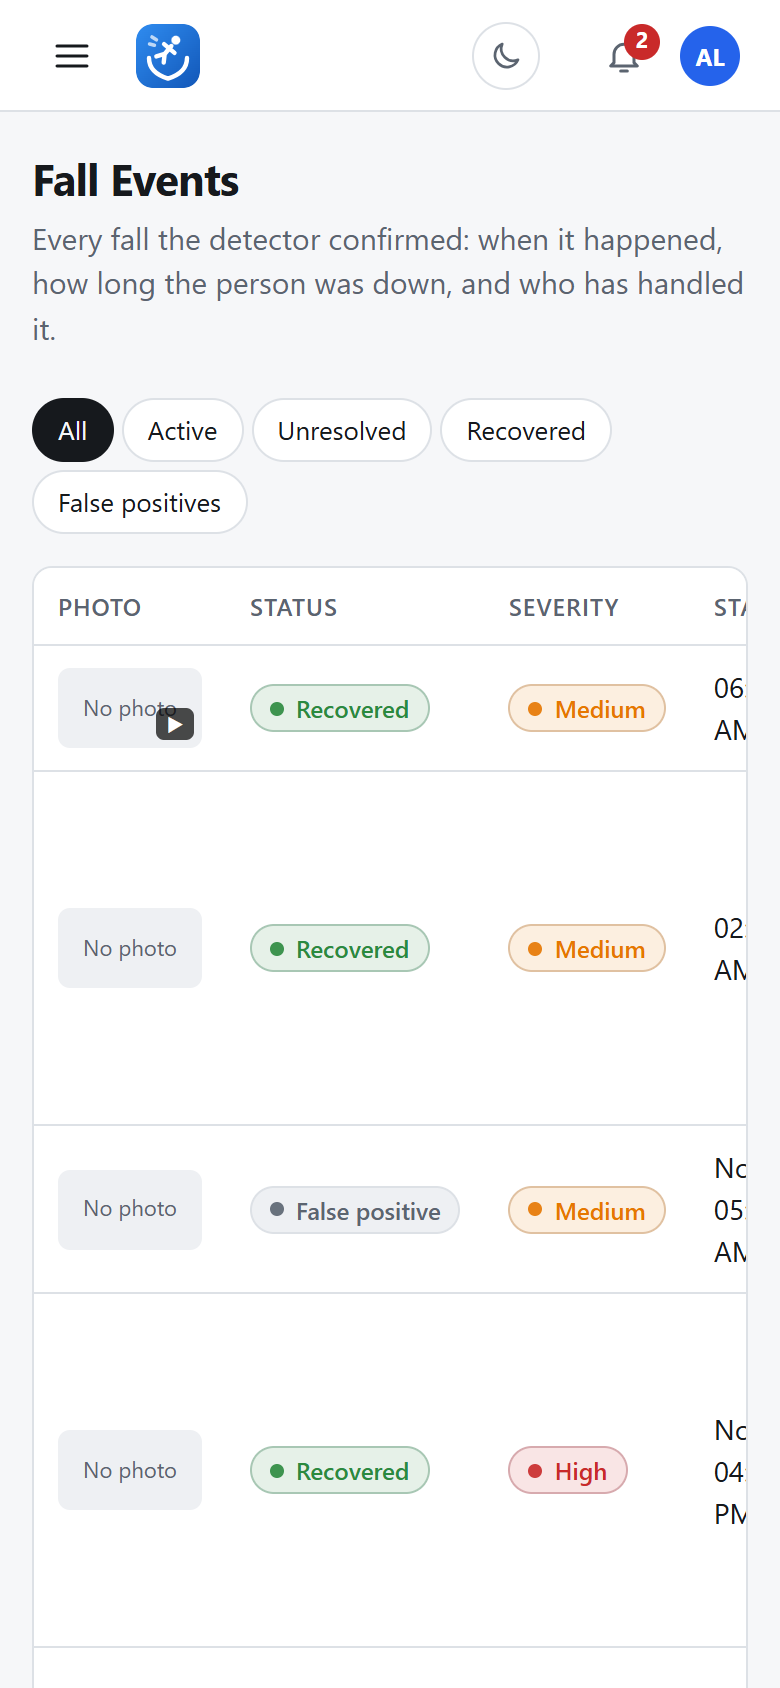
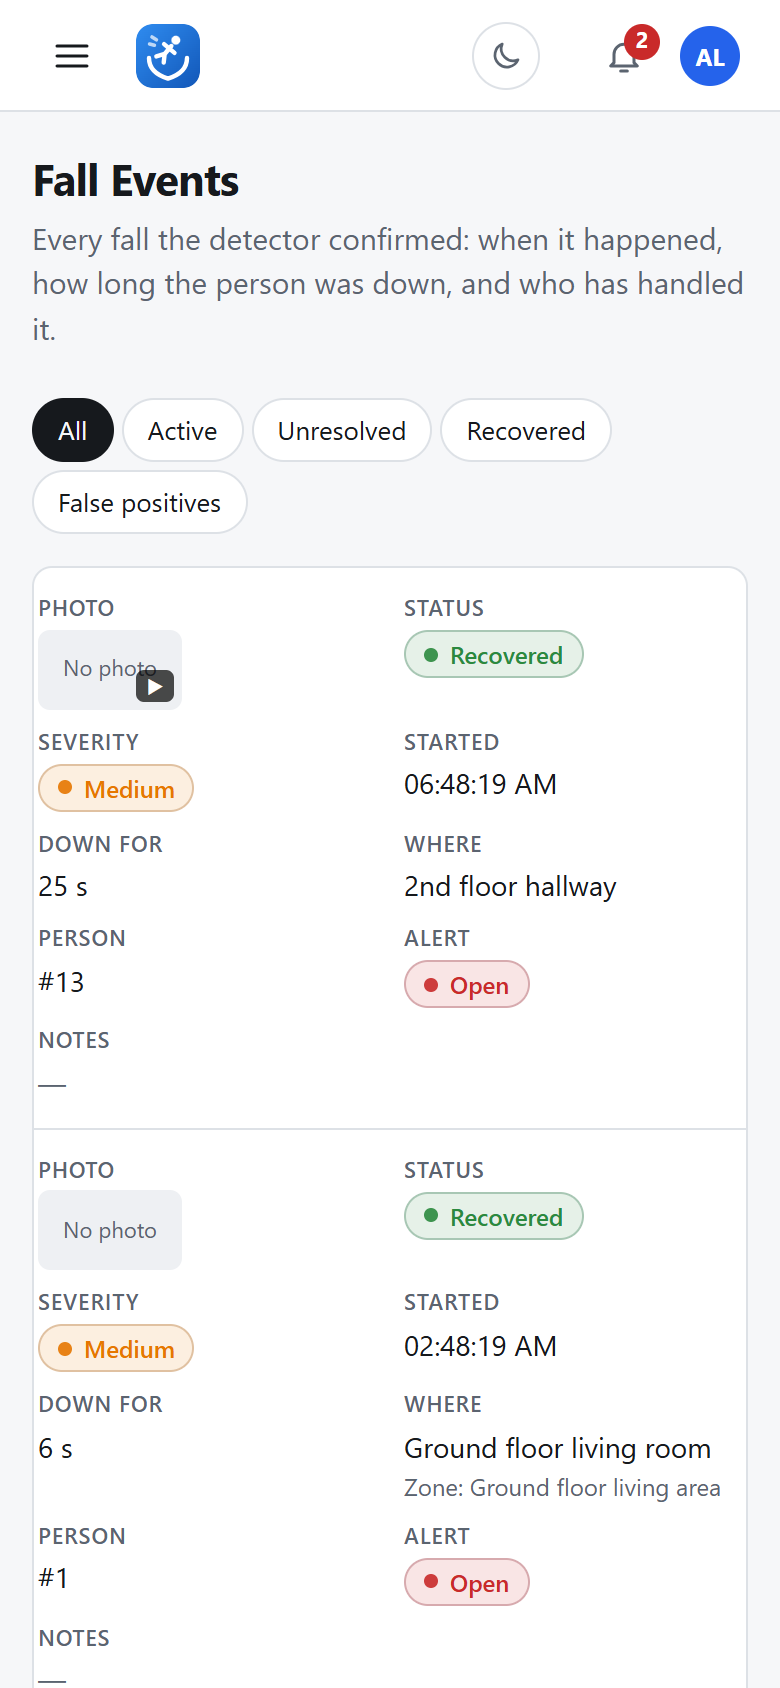
fix(frontend): phone layouts: tables as cards, tick-box grids that fit, 2-column tiles
Checked every page at 390 and 360 px wide (nothing wider than the screen now):
- Tables marked table--stack become one card per row on phones (<= 640 px), each value under
  its column's name (useStackedTableLabels copies the headers): Fall Events, Reports & Export
  (incident log, report forms, recently deleted), Members, temporary access links, Emails sent,
  Recent messages, Camera Logs, share-link views.
- What each role can do / When to notify / recipients: fit the screen instead of being cut off.
  When to notify also had its row labels styled as headers (capitals, no wrapping), which
  pushed the tick columns out of the card on every screen size.
- Summary tiles two per row on phones (incident page, Analytics, Reports).
- Camera order: the status and the move buttons wrap under the name.
- Settings -> System status: long errors wrap inside the card.
- Phone screenshots 21, 23 refreshed.

diff --git a/fallguard-frontend/src/components/ui/ui.css b/fallguard-frontend/src/components/ui/ui.css
@@ -47,7 +47,7 @@
 .field small { color: var(--text-muted); font-weight: 400; }
 
 /* Stat tiles */
-.tiles { display: grid; gap: 12px; grid-template-columns: repeat(auto-fit, minmax(min(100%, 180px), 1fr)); margin-bottom: 24px; }
+.tiles { display: grid; gap: 12px; grid-template-columns: repeat(auto-fit, minmax(min(100%, 150px), 1fr)); margin-bottom: 24px; }
 .tile { padding: 16px; }
 .tile__label { font-size: 13px; color: var(--text-muted); }
 .tile__value { font-size: 30px; font-weight: 700; letter-spacing: -0.02em; font-variant-numeric: tabular-nums; line-height: 1.2; margin-top: 4px; }
@@ -195,3 +195,27 @@
 .msg-preview__note { margin: 10px 0 0; font-size: 13px; }
 .msg-preview__loading { margin: 0; }
 @media (prefers-reduced-motion: reduce) { .msg-preview__card { animation: none; } }
+
+/* Phones: tables marked table--stack show one card per row, each value under its column's name
+   (data-label, filled in by useStackedTableLabels). Cells without a name (buttons) span the row. */
+@media (max-width: 640px) {
+  .tiles { gap: 10px; }
+  .tile { padding: 12px 14px; }
+  .table--stack { min-width: 0 !important; }
+  .table--stack thead { position: absolute; width: 1px; height: 1px; overflow: hidden; clip: rect(0 0 0 0); }
+  .table--stack, .table--stack tbody { display: block; width: 100%; }
+  .table--stack tr { display: grid; grid-template-columns: repeat(2, minmax(0, 1fr)); gap: 8px 14px; padding: 12px 2px;
+    border-bottom: 1px solid var(--border); }
+  .table--stack tbody tr:last-child { border-bottom: 0; }
+  .table--stack td { display: block; min-width: 0; max-width: none !important; padding: 0; border: 0; text-align: left !important;
+    white-space: normal !important; overflow-wrap: anywhere; word-break: normal !important; }
+  .table--stack td[data-label]::before { content: attr(data-label); display: block; margin-bottom: 2px; font-size: 11px;
+    font-weight: 600; letter-spacing: .04em; text-transform: uppercase; color: var(--text-muted); }
+  .table--stack td:not([data-label]) { grid-column: 1 / -1; }
+  .table--stack td:empty { display: none; }
+  .table.table--stack tr.is-link:hover td { background: none; }
+  .table.table--stack tr.is-link:active { background: var(--surface-2); }
+  /* System status: name and badge on one line, the detail (latency or error) under them */
+  .table--status td { padding-left: 0; padding-right: 8px; }
+  .table--status td.num { white-space: normal; overflow-wrap: anywhere; max-width: 38vw; font-size: 12px; }
+}

diff --git a/fallguard-frontend/src/features/notifications/notifications.css b/fallguard-frontend/src/features/notifications/notifications.css
@@ -3,13 +3,20 @@
 
 .notif-matrix { min-width: 480px; }
 .notif-matrix__sev { text-align: center !important; width: 110px; }
-.notif-matrix__ch { display: grid; gap: 2px; text-align: left; font-weight: 500; text-transform: none; letter-spacing: 0; color: var(--text); font-size: 14px; white-space: normal; padding: 10px 12px; border-bottom: 1px solid var(--border); }
-.notif-matrix__ch small { font-weight: 400; font-size: 12px; }
+.notif-matrix th.notif-matrix__ch, .notif-recipients th.notif-matrix__ch { display: grid; gap: 2px; text-align: left; font-weight: 500; text-transform: none; letter-spacing: 0; color: var(--text); font-size: 14px; white-space: normal; padding: 10px 12px; border-bottom: 1px solid var(--border); }
+.notif-matrix th.notif-matrix__ch small, .notif-recipients th.notif-matrix__ch small { font-weight: 400; font-size: 12px; text-transform: none; letter-spacing: 0; }
 .notif-matrix__cell { text-align: center; }
 .notif-matrix__cell input { width: 18px; height: 18px; accent-color: var(--accent); cursor: pointer; }
 .notif-matrix__cell input:disabled { cursor: not-allowed; opacity: .4; }
 .notif-recipients { min-width: 460px; }
 .notif-recipients .notif-matrix__sev { width: 70px; }
+@media (max-width: 640px) {
+  .notif-matrix, .notif-recipients { min-width: 0; }
+  .notif-matrix th, .notif-matrix td, .notif-recipients th, .notif-recipients td { padding-left: 6px; padding-right: 6px; }
+  .notif-matrix__sev, .notif-recipients .notif-matrix__sev { width: 62px; }
+  .notif-matrix__sev .badge, .notif-recipients .notif-matrix__sev .badge { padding: 1px 6px; font-size: 11px; }
+  .notif-matrix th.notif-matrix__ch { padding: 8px 6px; }
+}
 
 .notif-add { display: grid; gap: 10px; margin-top: 12px; }
 .notif-add__manual { display: flex; flex-wrap: wrap; gap: 10px; align-items: flex-end; }

diff --git a/fallguard-frontend/src/lib/stackTables.ts b/fallguard-frontend/src/lib/stackTables.ts
@@ -1,0 +1,40 @@
+import { useEffect } from 'react';
+
+/**
+ * Tables marked `table--stack` become one card per row on phones (ui.css): each cell shows its
+ * column's name above its value. This copies the header names onto the cells (data-label), for
+ * every such table on the page, also when rows are added or the page changes.
+ */
+export function useStackedTableLabels(): void {
+  useEffect(() => {
+    let frame = 0;
+    const label = () => {
+      frame = 0;
+      for (const table of document.querySelectorAll<HTMLTableElement>('table.table--stack')) {
+        const heads: string[] = [];
+        for (const th of table.querySelectorAll<HTMLTableCellElement>('thead tr:first-child > th')) {
+          for (let i = 0; i < (th.colSpan || 1); i++) heads.push(th.textContent?.trim() ?? '');
+        }
+        for (const row of table.querySelectorAll<HTMLTableRowElement>('tbody > tr')) {
+          let col = 0;
+          for (const cell of Array.from(row.cells)) {
+            const name = cell.colSpan > 1 ? '' : heads[col] ?? '';
+            if (name && cell.getAttribute('data-label') !== name) cell.setAttribute('data-label', name);
+            if (!name && cell.hasAttribute('data-label')) cell.removeAttribute('data-label');
+            col += cell.colSpan || 1;
+          }
+        }
+      }
+    };
+    const schedule = () => {
+      if (!frame) frame = requestAnimationFrame(label);
+    };
+    const observer = new MutationObserver(schedule);
+    observer.observe(document.body, { childList: true, subtree: true });
+    schedule();
+    return () => {
+      observer.disconnect();
+      cancelAnimationFrame(frame);
+    };
+  }, []);
+}

diff --git a/fallguard-frontend/src/features/incident-reports/IncidentReportsList.tsx b/fallguard-frontend/src/features/incident-reports/IncidentReportsList.tsx
@@ -61,7 +61,7 @@ function RecentlyDeleted({ onRestored }: { onRestored: () => unknown }) {
       {msg && <p className={`notice${msg.ok ? '' : ' notice--error'}`} role="status">{msg.text}</p>}
       {reports.length > 0 && (
         <div className="table-wrap">
-          <table className="table">
+          <table className="table table--stack">
             <thead><tr><th>Report</th><th>Incident</th><th>Deleted</th><th>Removed for good</th><th /></tr></thead>
             <tbody>
               {reports.map((r) => (
@@ -124,7 +124,7 @@ export function IncidentReportsList({ incidentIds }: { incidentIds?: Set<string>
         <p className="muted">{hidden > 0 ? `No reports for these fall events (${hidden} for other events: widen the time window or clear a filter).` : 'No incident reports yet.'}</p>
       ) : (
         <div className="table-wrap">
-          <table className="table">
+          <table className="table table--stack">
             <thead><tr><th>Report</th><th>Fall event</th><th>Status</th><th>Started by</th><th>Updated</th><th /></tr></thead>
             <tbody>
               {reports.map((r) => (

diff --git a/fallguard-frontend/src/features/camera-logs/CameraLogsPage.tsx b/fallguard-frontend/src/features/camera-logs/CameraLogsPage.tsx
@@ -63,7 +63,7 @@ export default function CameraLogsPage() {
         <h2 className="section-title">Right now</h2>
         {cams.error && <p className="notice notice--error">{cams.error}</p>}
         <div className="table-wrap">
-          <table className="table">
+          <table className="table table--stack">
             <thead>
               <tr><th>Camera</th><th>Status</th><th>Since</th><th className="num">For</th><th>Alert if not working</th><th /></tr>
             </thead>
@@ -104,7 +104,7 @@ export default function CameraLogsPage() {
             body="Camera changes appear here: added, paused, resumed, stopped working, back online, removed." />
         ) : (
           <div className="table-wrap">
-            <table className="table">
+            <table className="table table--stack">
               <thead><tr><th>Time</th><th>Camera</th><th>Status</th><th>What happened</th><th>By</th></tr></thead>
               <tbody>{entries.map((e, i) => <LogRow key={e.at + i} e={e} />)}</tbody>
             </table>

diff --git a/fallguard-frontend/src/features/members/members.css b/fallguard-frontend/src/features/members/members.css
@@ -19,6 +19,12 @@
 .roles-table__cell input { width: 18px; height: 18px; accent-color: var(--accent); cursor: pointer; }
 .roles-table__cell input:disabled { cursor: not-allowed; }
 .roles-table__lock { color: var(--text-muted); }
+@media (max-width: 640px) {
+  .roles-table { min-width: 0; }
+  .roles-table th, .roles-table td { padding-left: 6px; padding-right: 6px; }
+  .roles-table__role { width: 54px; font-size: 11px; }
+  .roles-table th.roles-table__perm { padding: 8px 6px; font-size: 13px; }
+}
 
 .demo-created { margin: 12px 0 0; overflow-wrap: anywhere; }
 .demo-created__url { flex: 1; min-width: 0; font: inherit; font-family: var(--mono); font-size: 12px; padding: 6px 8px; border: 1px solid var(--border); border-radius: 6px; background: var(--bg); color: var(--text); }

diff --git a/fallguard-frontend/src/components/layout/AppLayout.tsx b/fallguard-frontend/src/components/layout/AppLayout.tsx
@@ -7,6 +7,7 @@ import { Header } from './Header';
 import { Navigation } from './Navigation';
 import { MainContainer } from './MainContainer';
 import { Footer } from './Footer';
+import { useStackedTableLabels } from '../../lib/stackTables';
 import './AppLayout.css';
 
 /** App shell: Header + Navigation + MainContainer(page, Footer). */
@@ -21,6 +22,7 @@ export function AppLayout() {
     setOrgIncidentOverlay(settings.incident_overlay ?? null);
   }, [settings, setTimeZone, setOrgTheme, setOrgIncidentOverlay]);
   const { pathname } = useLocation();
+  useStackedTableLabels(); // tables become one card per row on phones (table--stack)
 
   useEffect(() => closeNav(), [pathname, closeNav]);
   useEffect(() => {

diff --git a/fallguard-frontend/src/features/cameras/cameras.css b/fallguard-frontend/src/features/cameras/cameras.css
@@ -21,6 +21,10 @@
 .cams-order__handle { color: var(--text-muted); font-size: 16px; }
 .cams-order__num { width: 18px; color: var(--text-muted); font-variant-numeric: tabular-nums; font-size: 13px; }
 .cams-order__name { flex: 1; min-width: 0; overflow: hidden; text-overflow: ellipsis; white-space: nowrap; font-size: 14px; }
+@media (max-width: 640px) {
+  .cams-order__item { flex-wrap: wrap; row-gap: 6px; }
+  .cams-order__name { flex-basis: calc(100% - 60px); }
+}
 .cams-order__arrows { display: flex; gap: 4px; }
 
 /* Switch a paused camera in when every streaming slot is used */

diff --git a/fallguard-frontend/src/features/members/MembersPage.tsx b/fallguard-frontend/src/features/members/MembersPage.tsx
@@ -307,7 +307,7 @@ export default function MembersPage() {
             Members ({data?.members.length ?? 0}){manage && (data?.invitations.length ?? 0) > 0 && <span className="muted"> · {data!.invitations.length} invited</span>}
           </h2>
           <div className="table-wrap">
-            <table className="table">
+            <table className="table table--stack">
               <thead><tr><th>Name</th><th>Role</th><th>Status</th><th>Last sign-in</th><th>Joined</th><th /></tr></thead>
               <tbody>
                 {(data?.members ?? []).map((m) => (

diff --git a/fallguard-frontend/src/features/reports/ReportsPage.tsx b/fallguard-frontend/src/features/reports/ReportsPage.tsx
@@ -138,7 +138,7 @@ export default function ReportsPage() {
           <EmptyState icon="alert" title="No incidents match" body="Widen the time window or clear a filter." />
         ) : (
           <div className="table-wrap">
-            <table className="table">
+            <table className="table table--stack">
               <thead>
                 <tr><th>Started</th><th>Where</th><th>Status</th><th>Severity</th><th className="num">Down for</th><th>Alert</th><th>Handled by</th><th className="num">Notes</th></tr>
               </thead>

diff --git a/fallguard-frontend/src/features/events/ShareLinksPanel.tsx b/fallguard-frontend/src/features/events/ShareLinksPanel.tsx
@@ -59,7 +59,7 @@ function LinkCard({ l, onRevoke }: { l: ShareLink; onRevoke: () => void }) {
           {error && <p className="notice notice--error">{error}</p>}
           {!views && !error && <p className="muted">Loading…</p>}
           {views && (
-            <table className="table share-views__table">
+            <table className="table table--stack share-views__table">
               <thead><tr><th>Opened</th><th>IP address</th><th>Browser</th></tr></thead>
               <tbody>
                 {views.map((v, i) => (

diff --git a/fallguard-frontend/src/features/events/EventsPage.tsx b/fallguard-frontend/src/features/events/EventsPage.tsx
@@ -57,7 +57,7 @@ export default function EventsPage() {
         <EmptyState icon="alert" title="No fall events" body={status ? 'Nothing with this status.' : 'Confirmed falls appear here within seconds.'} />
       ) : (
         <div className="card table-wrap">
-          <table className="table">
+          <table className="table table--stack">
             <thead>
               <tr>
                 <th>Photo</th><th>Status</th><th>Severity</th><th>Started</th><th className="num">Down for</th>
